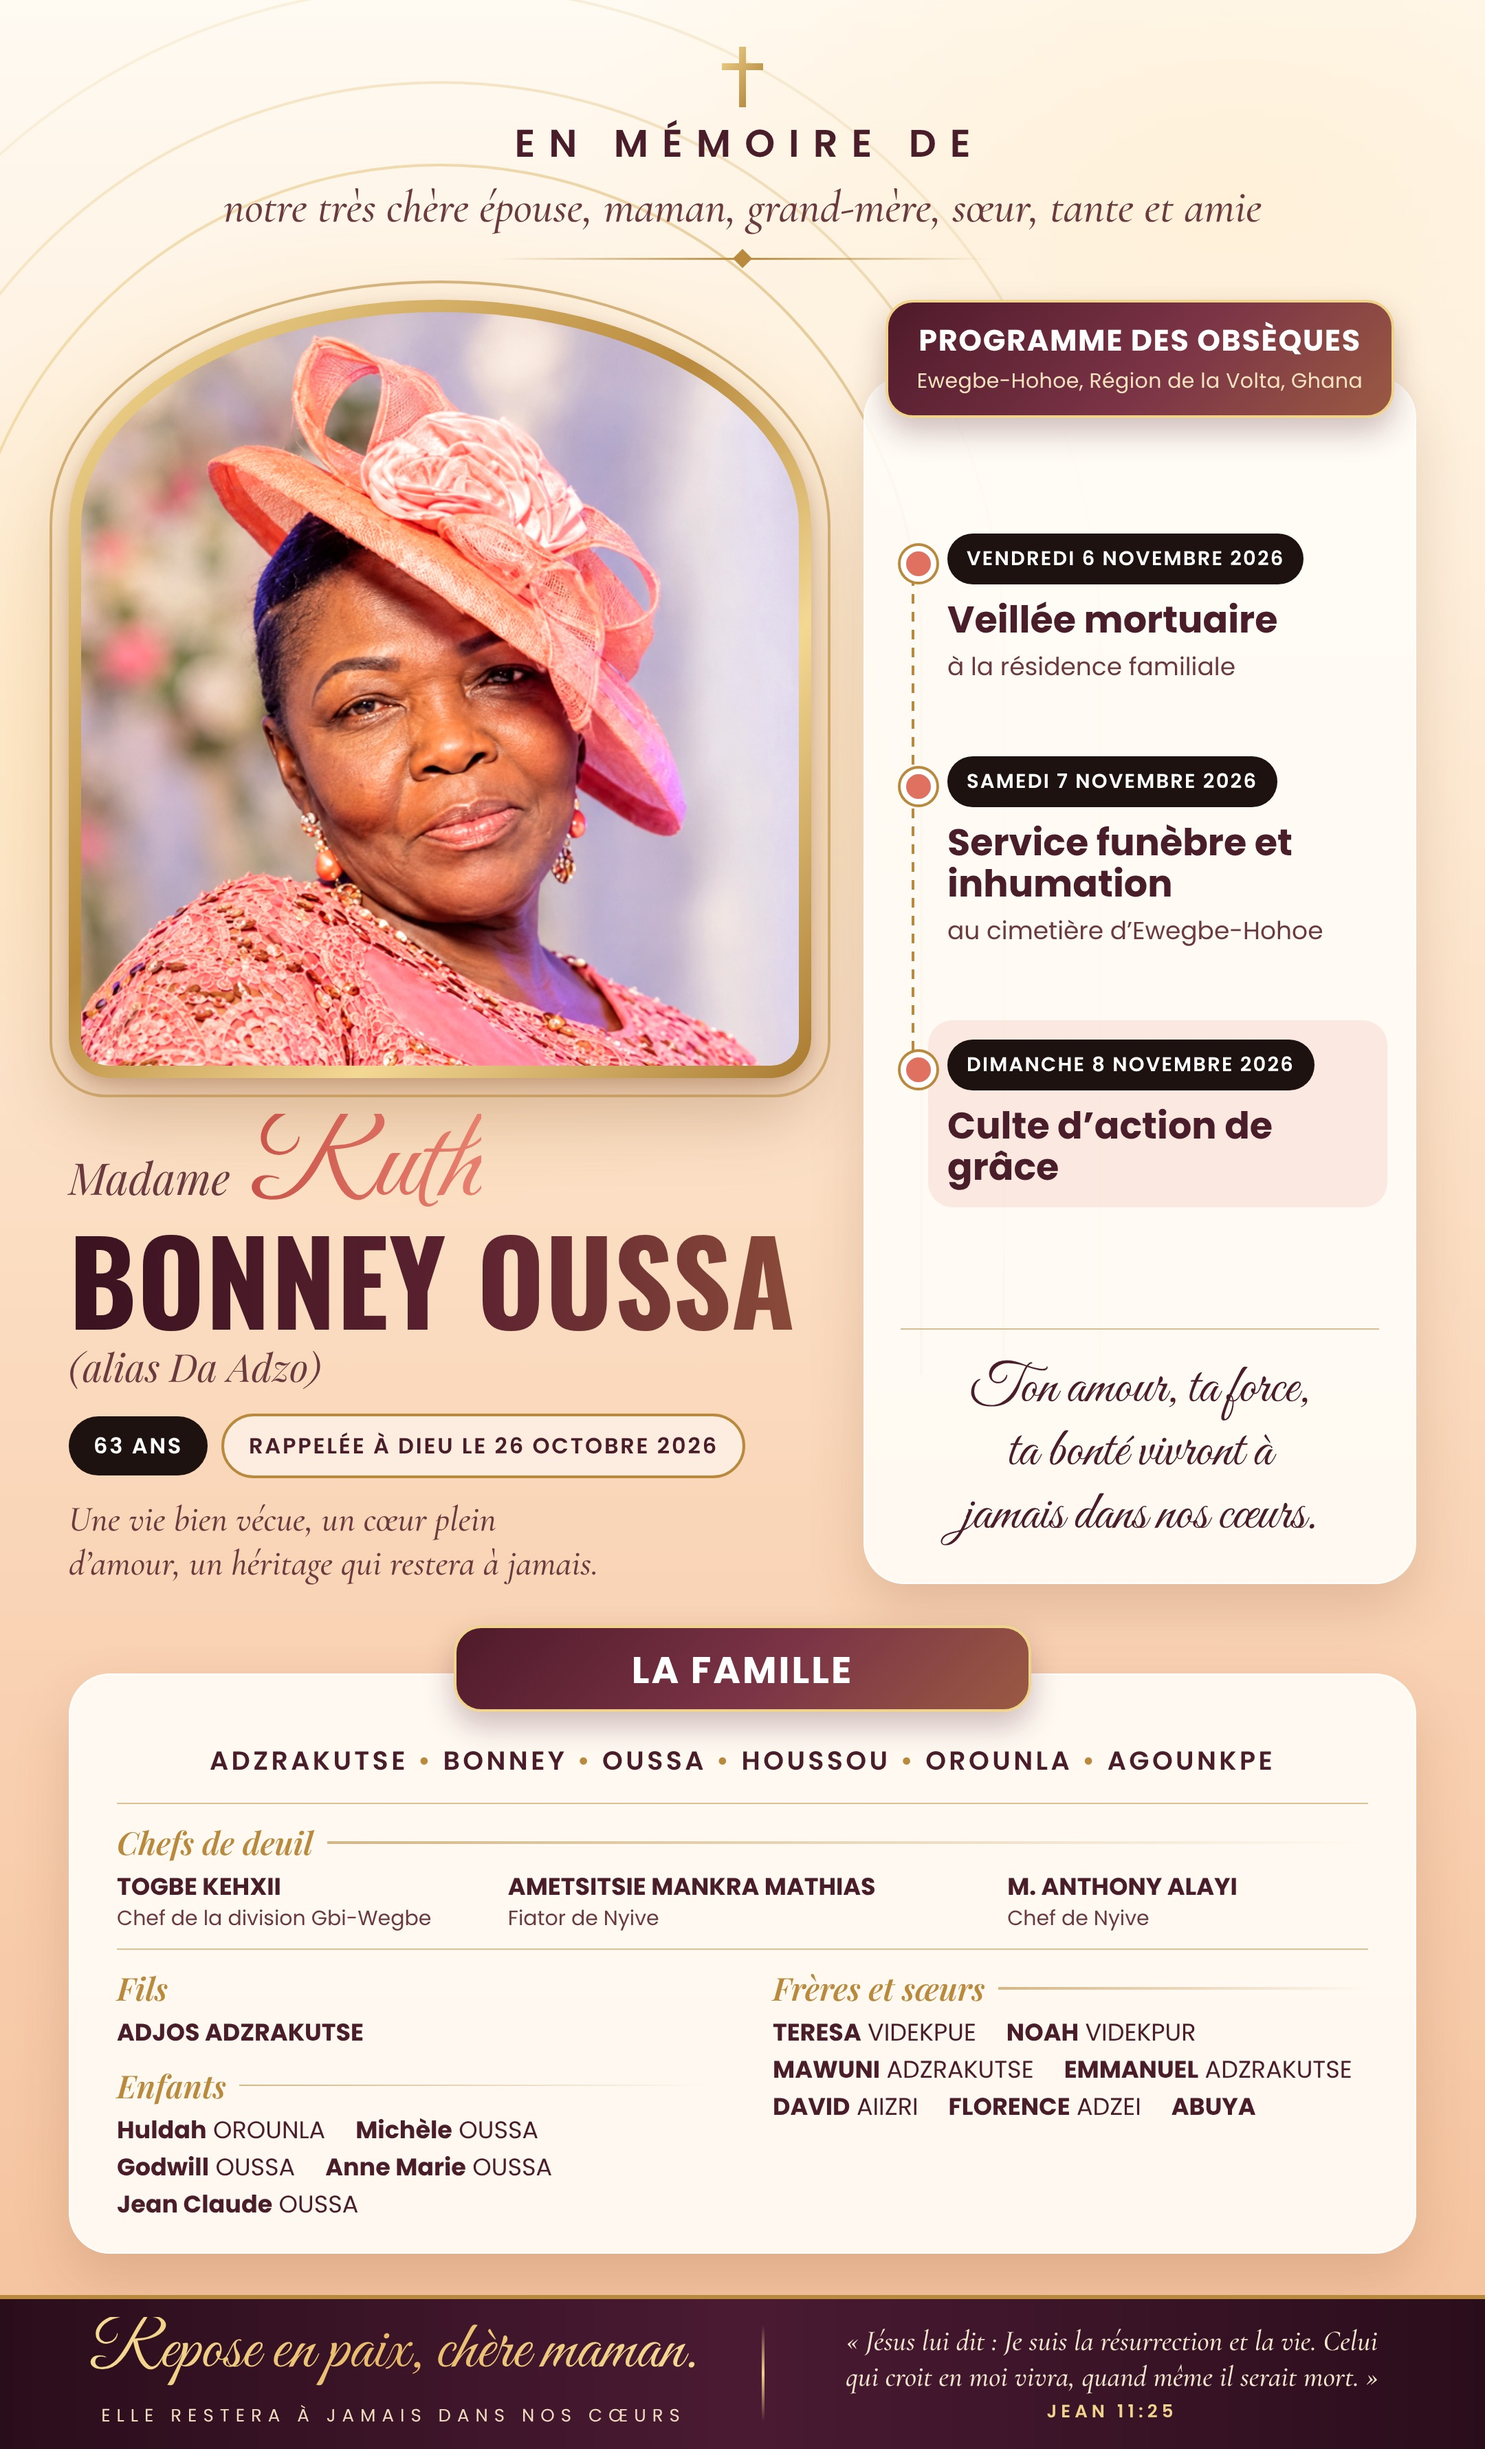
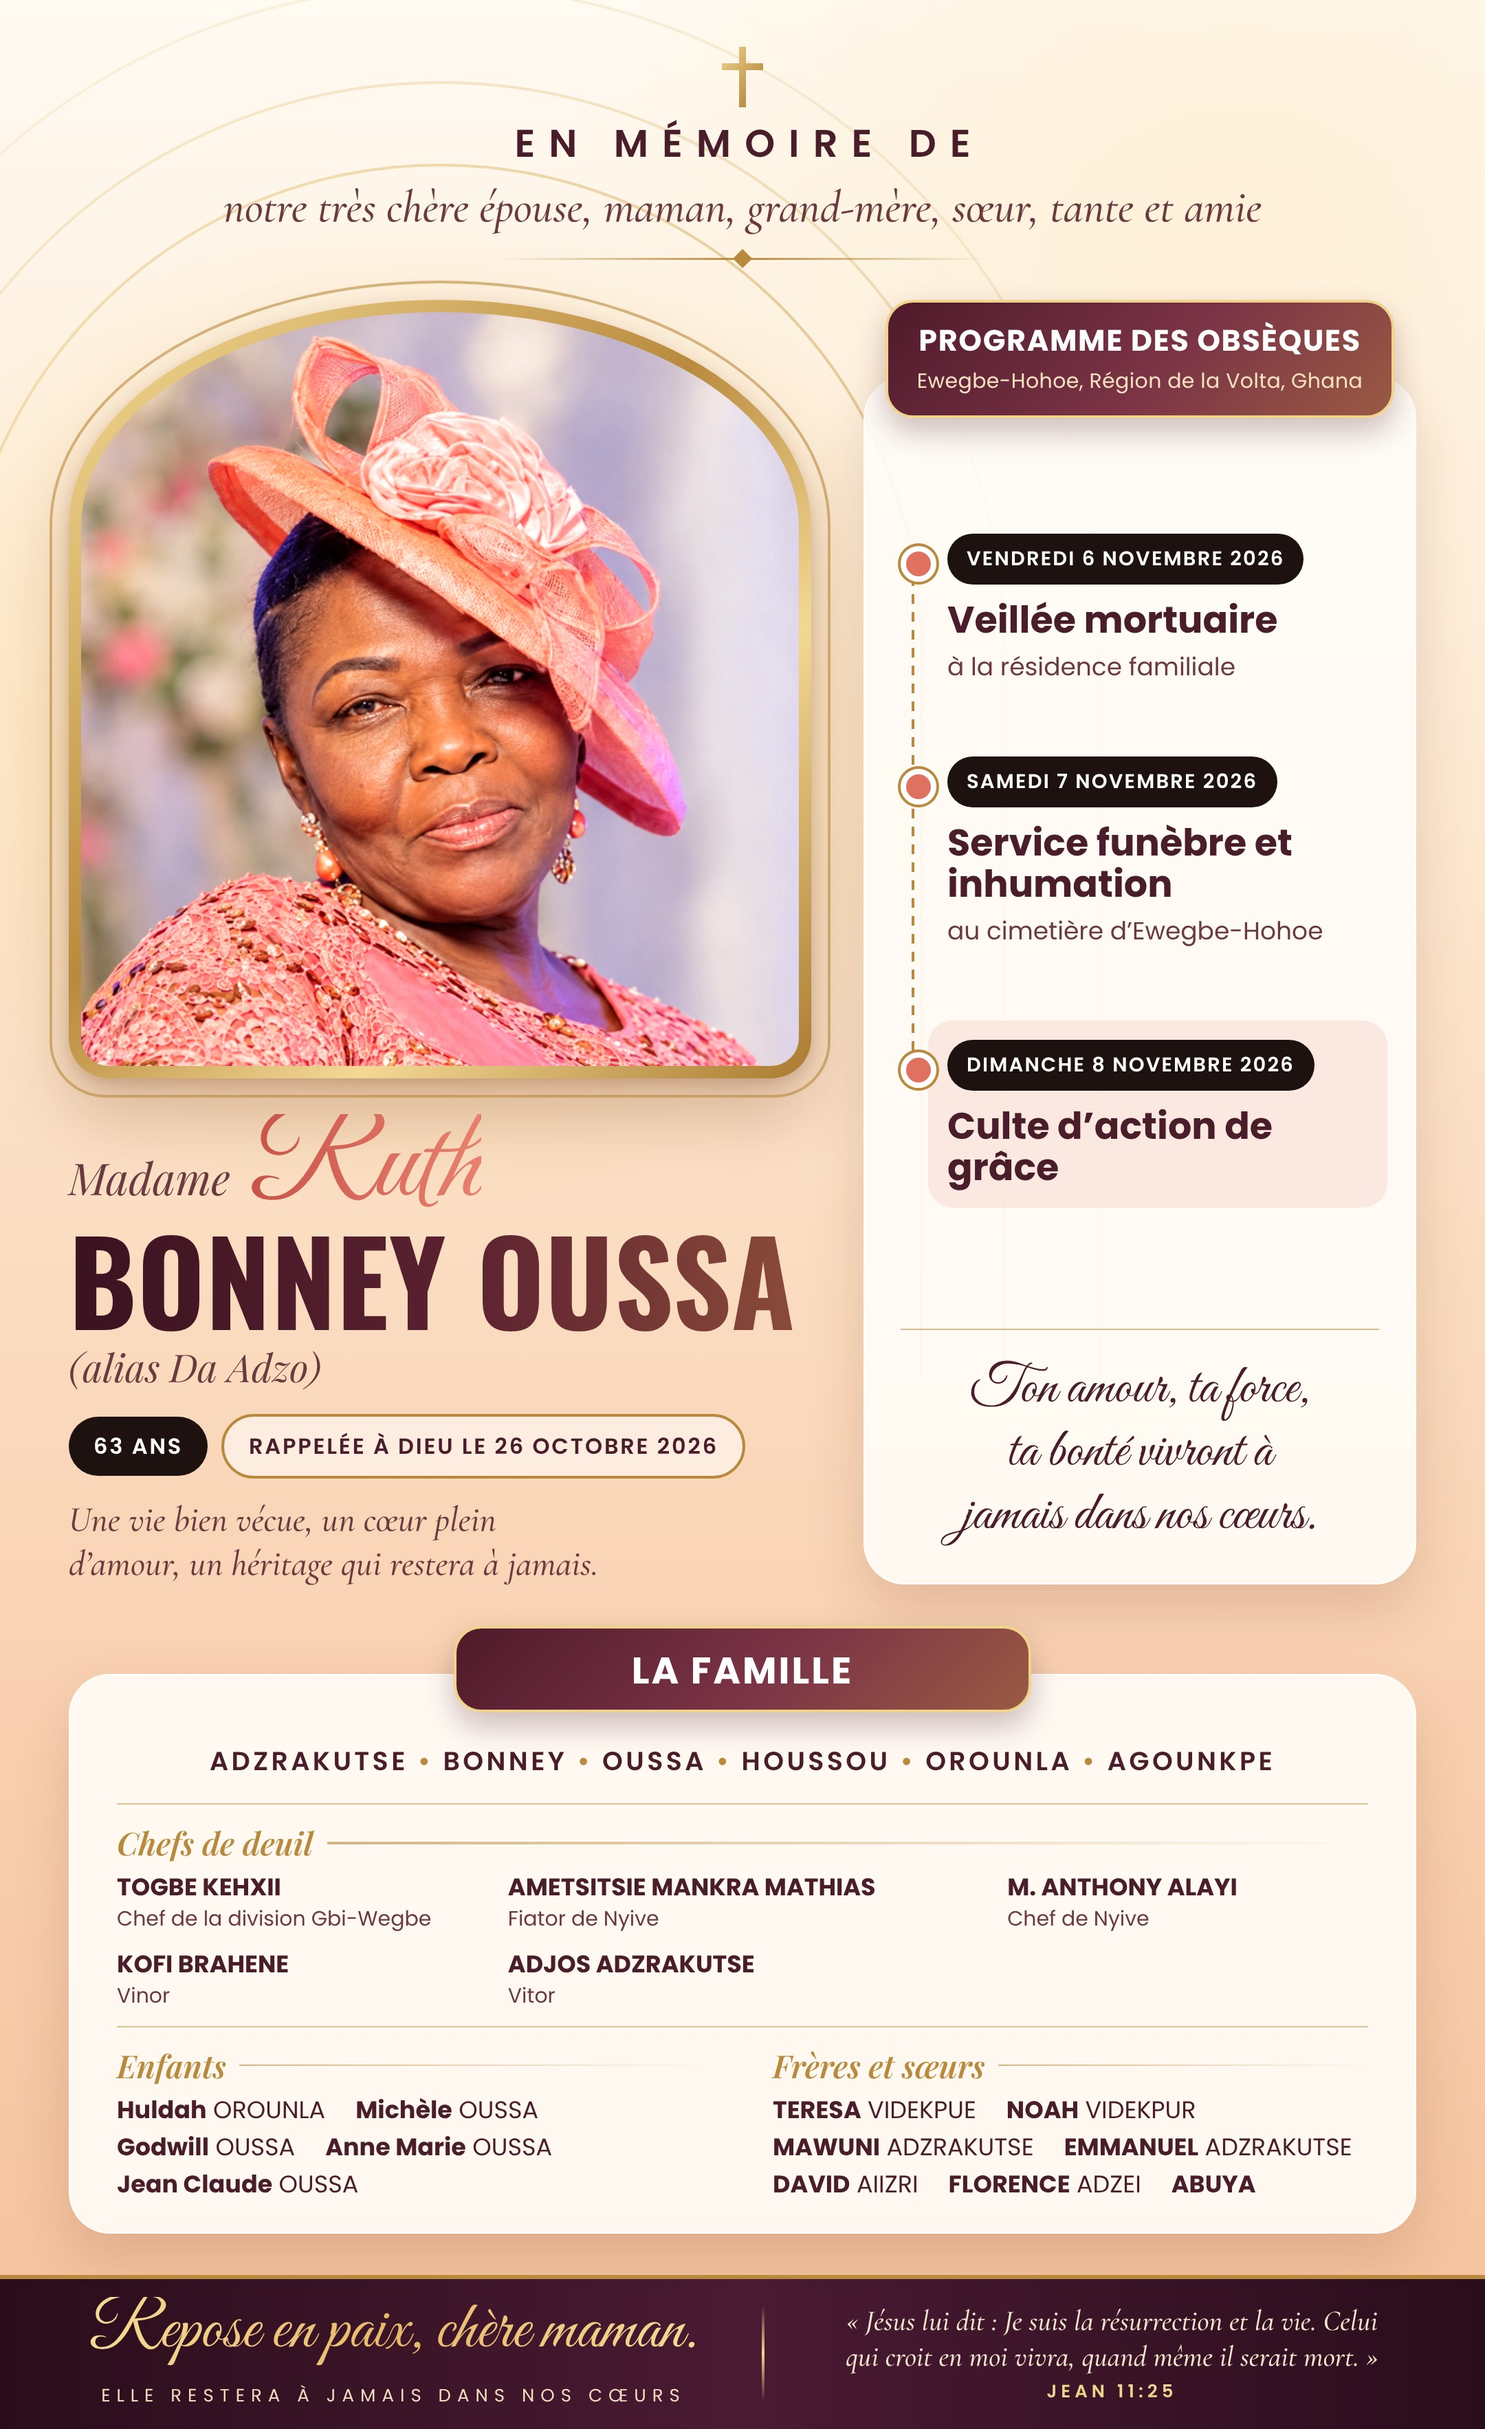
Poster: add Vinor (Kofi Brahene) and Vitor (Adjos Adzrakutse) after the Head of Nyive; drop duplicate Son entry
Claude-Session: https://claude.ai/code/session_01K4EnF2A5EJ5axGxs2C2Gak

diff --git a/affiche-ruth-bonney-oussa/src/affiche-fr.html b/affiche-ruth-bonney-oussa/src/affiche-fr.html
@@ -117,7 +117,7 @@ html[lang=fr] .prog .tab span{font-size:15px;letter-spacing:.2px}
 .surnames{text-align:center;font-weight:600;font-size:19px;letter-spacing:2.2px;color:var(--ink);padding-bottom:16px;border-bottom:1.5px solid rgba(185,138,62,.5)}
 .surnames i{color:var(--gold);font-style:normal;padding:0 7px}
 .mourners{padding:12px 0 12px;border-bottom:1.5px solid rgba(185,138,62,.5)}
-.m3{display:grid;grid-template-columns:1fr 1.3fr 1fr;column-gap:22px}
+.m3{display:grid;grid-template-columns:1fr 1.3fr 1fr;column-gap:22px;row-gap:12px}
 .hs{display:grid;grid-template-columns:auto 1fr;column-gap:34px}
 .hs h4::after{display:none}
 .nw{white-space:nowrap}
@@ -212,13 +212,12 @@ footer .jn b{display:block;font-family:'Poppins',sans-serif;font-style:normal;fo
           <p><b>TOGBE KEHXII</b><small>Chef de la division Gbi-Wegbe</small></p>
           <p><b>AMETSITSIE MANKRA MATHIAS</b><small>Fiator de Nyive</small></p>
           <p><b>M. ANTHONY ALAYI</b><small>Chef de Nyive</small></p>
+          <p><b>KOFI BRAHENE</b><small>Vinor</small></p>
+          <p><b>ADJOS ADZRAKUTSE</b><small>Vitor</small></p>
         </div>
       </div>
       <div class="cols">
         <div class="col">
-          <div class="hs">
-            <div><h4>Fils</h4><p><b>ADJOS ADZRAKUTSE</b></p></div>
-          </div>
           <h4>Enfants</h4>
           <p class="names"><span class="nw"><b>Huldah</b> OROUNLA</span> <span class="nw"><b>Michèle</b> OUSSA</span> <span class="nw"><b>Godwill</b> OUSSA</span> <span class="nw"><b>Anne Marie</b> OUSSA</span> <span class="nw"><b>Jean Claude</b> OUSSA</span></p>
         </div>

diff --git a/affiche-ruth-bonney-oussa/src/affiche-en.html b/affiche-ruth-bonney-oussa/src/affiche-en.html
@@ -117,7 +117,7 @@ html[lang=fr] .prog .tab span{font-size:15px;letter-spacing:.2px}
 .surnames{text-align:center;font-weight:600;font-size:19px;letter-spacing:2.2px;color:var(--ink);padding-bottom:16px;border-bottom:1.5px solid rgba(185,138,62,.5)}
 .surnames i{color:var(--gold);font-style:normal;padding:0 7px}
 .mourners{padding:12px 0 12px;border-bottom:1.5px solid rgba(185,138,62,.5)}
-.m3{display:grid;grid-template-columns:1fr 1.3fr 1fr;column-gap:22px}
+.m3{display:grid;grid-template-columns:1fr 1.3fr 1fr;column-gap:22px;row-gap:12px}
 .hs{display:grid;grid-template-columns:auto 1fr;column-gap:34px}
 .hs h4::after{display:none}
 .nw{white-space:nowrap}
@@ -212,13 +212,12 @@ footer .jn b{display:block;font-family:'Poppins',sans-serif;font-style:normal;fo
           <p><b>TOGBE KEHXII</b><small>Head of Gbi-Wegbe Division</small></p>
           <p><b>AMETSITSIE MANKRA MATHIAS</b><small>Fiator de Nyive</small></p>
           <p><b>M. ANTHONY ALAYI</b><small>Head of Nyive</small></p>
+          <p><b>KOFI BRAHENE</b><small>Vinor</small></p>
+          <p><b>ADJOS ADZRAKUTSE</b><small>Vitor</small></p>
         </div>
       </div>
       <div class="cols">
         <div class="col">
-          <div class="hs">
-            <div><h4>Son</h4><p><b>ADJOS ADZRAKUTSE</b></p></div>
-          </div>
           <h4>Children</h4>
           <p class="names"><span class="nw"><b>Huldah</b> OROUNLA</span> <span class="nw"><b>Michèle</b> OUSSA</span> <span class="nw"><b>Godwill</b> OUSSA</span> <span class="nw"><b>Anne Marie</b> OUSSA</span> <span class="nw"><b>Jean Claude</b> OUSSA</span></p>
         </div>

diff --git a/affiche-ruth-bonney-oussa/src/template.html b/affiche-ruth-bonney-oussa/src/template.html
@@ -117,7 +117,7 @@ html[lang=fr] .prog .tab span{font-size:15px;letter-spacing:.2px}
 .surnames{text-align:center;font-weight:600;font-size:19px;letter-spacing:2.2px;color:var(--ink);padding-bottom:16px;border-bottom:1.5px solid rgba(185,138,62,.5)}
 .surnames i{color:var(--gold);font-style:normal;padding:0 7px}
 .mourners{padding:12px 0 12px;border-bottom:1.5px solid rgba(185,138,62,.5)}
-.m3{display:grid;grid-template-columns:1fr 1.3fr 1fr;column-gap:22px}
+.m3{display:grid;grid-template-columns:1fr 1.3fr 1fr;column-gap:22px;row-gap:12px}
 .hs{display:grid;grid-template-columns:auto 1fr;column-gap:34px}
 .hs h4::after{display:none}
 .nw{white-space:nowrap}
@@ -212,13 +212,12 @@ footer .jn b{display:block;font-family:'Poppins',sans-serif;font-style:normal;fo
           <p><b>TOGBE KEHXII</b><small>{{m1}}</small></p>
           <p><b>AMETSITSIE MANKRA MATHIAS</b><small>{{m2}}</small></p>
           <p><b>M. ANTHONY ALAYI</b><small>{{m3}}</small></p>
+          <p><b>KOFI BRAHENE</b><small>Vinor</small></p>
+          <p><b>ADJOS ADZRAKUTSE</b><small>Vitor</small></p>
         </div>
       </div>
       <div class="cols">
         <div class="col">
-          <div class="hs">
-            <div><h4>{{h_son}}</h4><p><b>ADJOS ADZRAKUTSE</b></p></div>
-          </div>
           <h4>{{h_children}}</h4>
           <p class="names"><span class="nw"><b>Huldah</b> OROUNLA</span> <span class="nw"><b>Michèle</b> OUSSA</span> <span class="nw"><b>Godwill</b> OUSSA</span> <span class="nw"><b>Anne Marie</b> OUSSA</span> <span class="nw"><b>Jean Claude</b> OUSSA</span></p>
         </div>

diff --git a/affiche-ruth-bonney-oussa/src/affiche-fr-square.html b/affiche-ruth-bonney-oussa/src/affiche-fr-square.html
@@ -164,9 +164,8 @@ footer .jn b{display:block;font-family:'Poppins',sans-serif;font-style:normal;fo
           <p><b>TOGBE KEHXII</b><small>Chef de la division Gbi-Wegbe</small></p>
           <p><b>AMETSITSIE MANKRA MATHIAS</b><small>Fiator de Nyive</small></p>
           <p><b>M. ANTHONY ALAYI</b><small>Chef de Nyive</small></p>
-          <div class="hs">
-            <div><h4>Fils</h4><p><b>ADJOS ADZRAKUTSE</b></p></div>
-          </div>
+          <p><b>KOFI BRAHENE</b><small>Vinor</small></p>
+          <p><b>ADJOS ADZRAKUTSE</b><small>Vitor</small></p>
         </div>
         <div class="col">
           <h4>Enfants</h4>

diff --git a/affiche-ruth-bonney-oussa/src/affiche-en-square.html b/affiche-ruth-bonney-oussa/src/affiche-en-square.html
@@ -164,9 +164,8 @@ footer .jn b{display:block;font-family:'Poppins',sans-serif;font-style:normal;fo
           <p><b>TOGBE KEHXII</b><small>Head of Gbi-Wegbe Division</small></p>
           <p><b>AMETSITSIE MANKRA MATHIAS</b><small>Fiator de Nyive</small></p>
           <p><b>M. ANTHONY ALAYI</b><small>Head of Nyive</small></p>
-          <div class="hs">
-            <div><h4>Son</h4><p><b>ADJOS ADZRAKUTSE</b></p></div>
-          </div>
+          <p><b>KOFI BRAHENE</b><small>Vinor</small></p>
+          <p><b>ADJOS ADZRAKUTSE</b><small>Vitor</small></p>
         </div>
         <div class="col">
           <h4>Children</h4>

diff --git a/affiche-ruth-bonney-oussa/src/template-square.html b/affiche-ruth-bonney-oussa/src/template-square.html
@@ -164,9 +164,8 @@ footer .jn b{display:block;font-family:'Poppins',sans-serif;font-style:normal;fo
           <p><b>TOGBE KEHXII</b><small>{{m1}}</small></p>
           <p><b>AMETSITSIE MANKRA MATHIAS</b><small>{{m2}}</small></p>
           <p><b>M. ANTHONY ALAYI</b><small>{{m3}}</small></p>
-          <div class="hs">
-            <div><h4>{{h_son}}</h4><p><b>ADJOS ADZRAKUTSE</b></p></div>
-          </div>
+          <p><b>KOFI BRAHENE</b><small>Vinor</small></p>
+          <p><b>ADJOS ADZRAKUTSE</b><small>Vitor</small></p>
         </div>
         <div class="col">
           <h4>{{h_children}}</h4>
